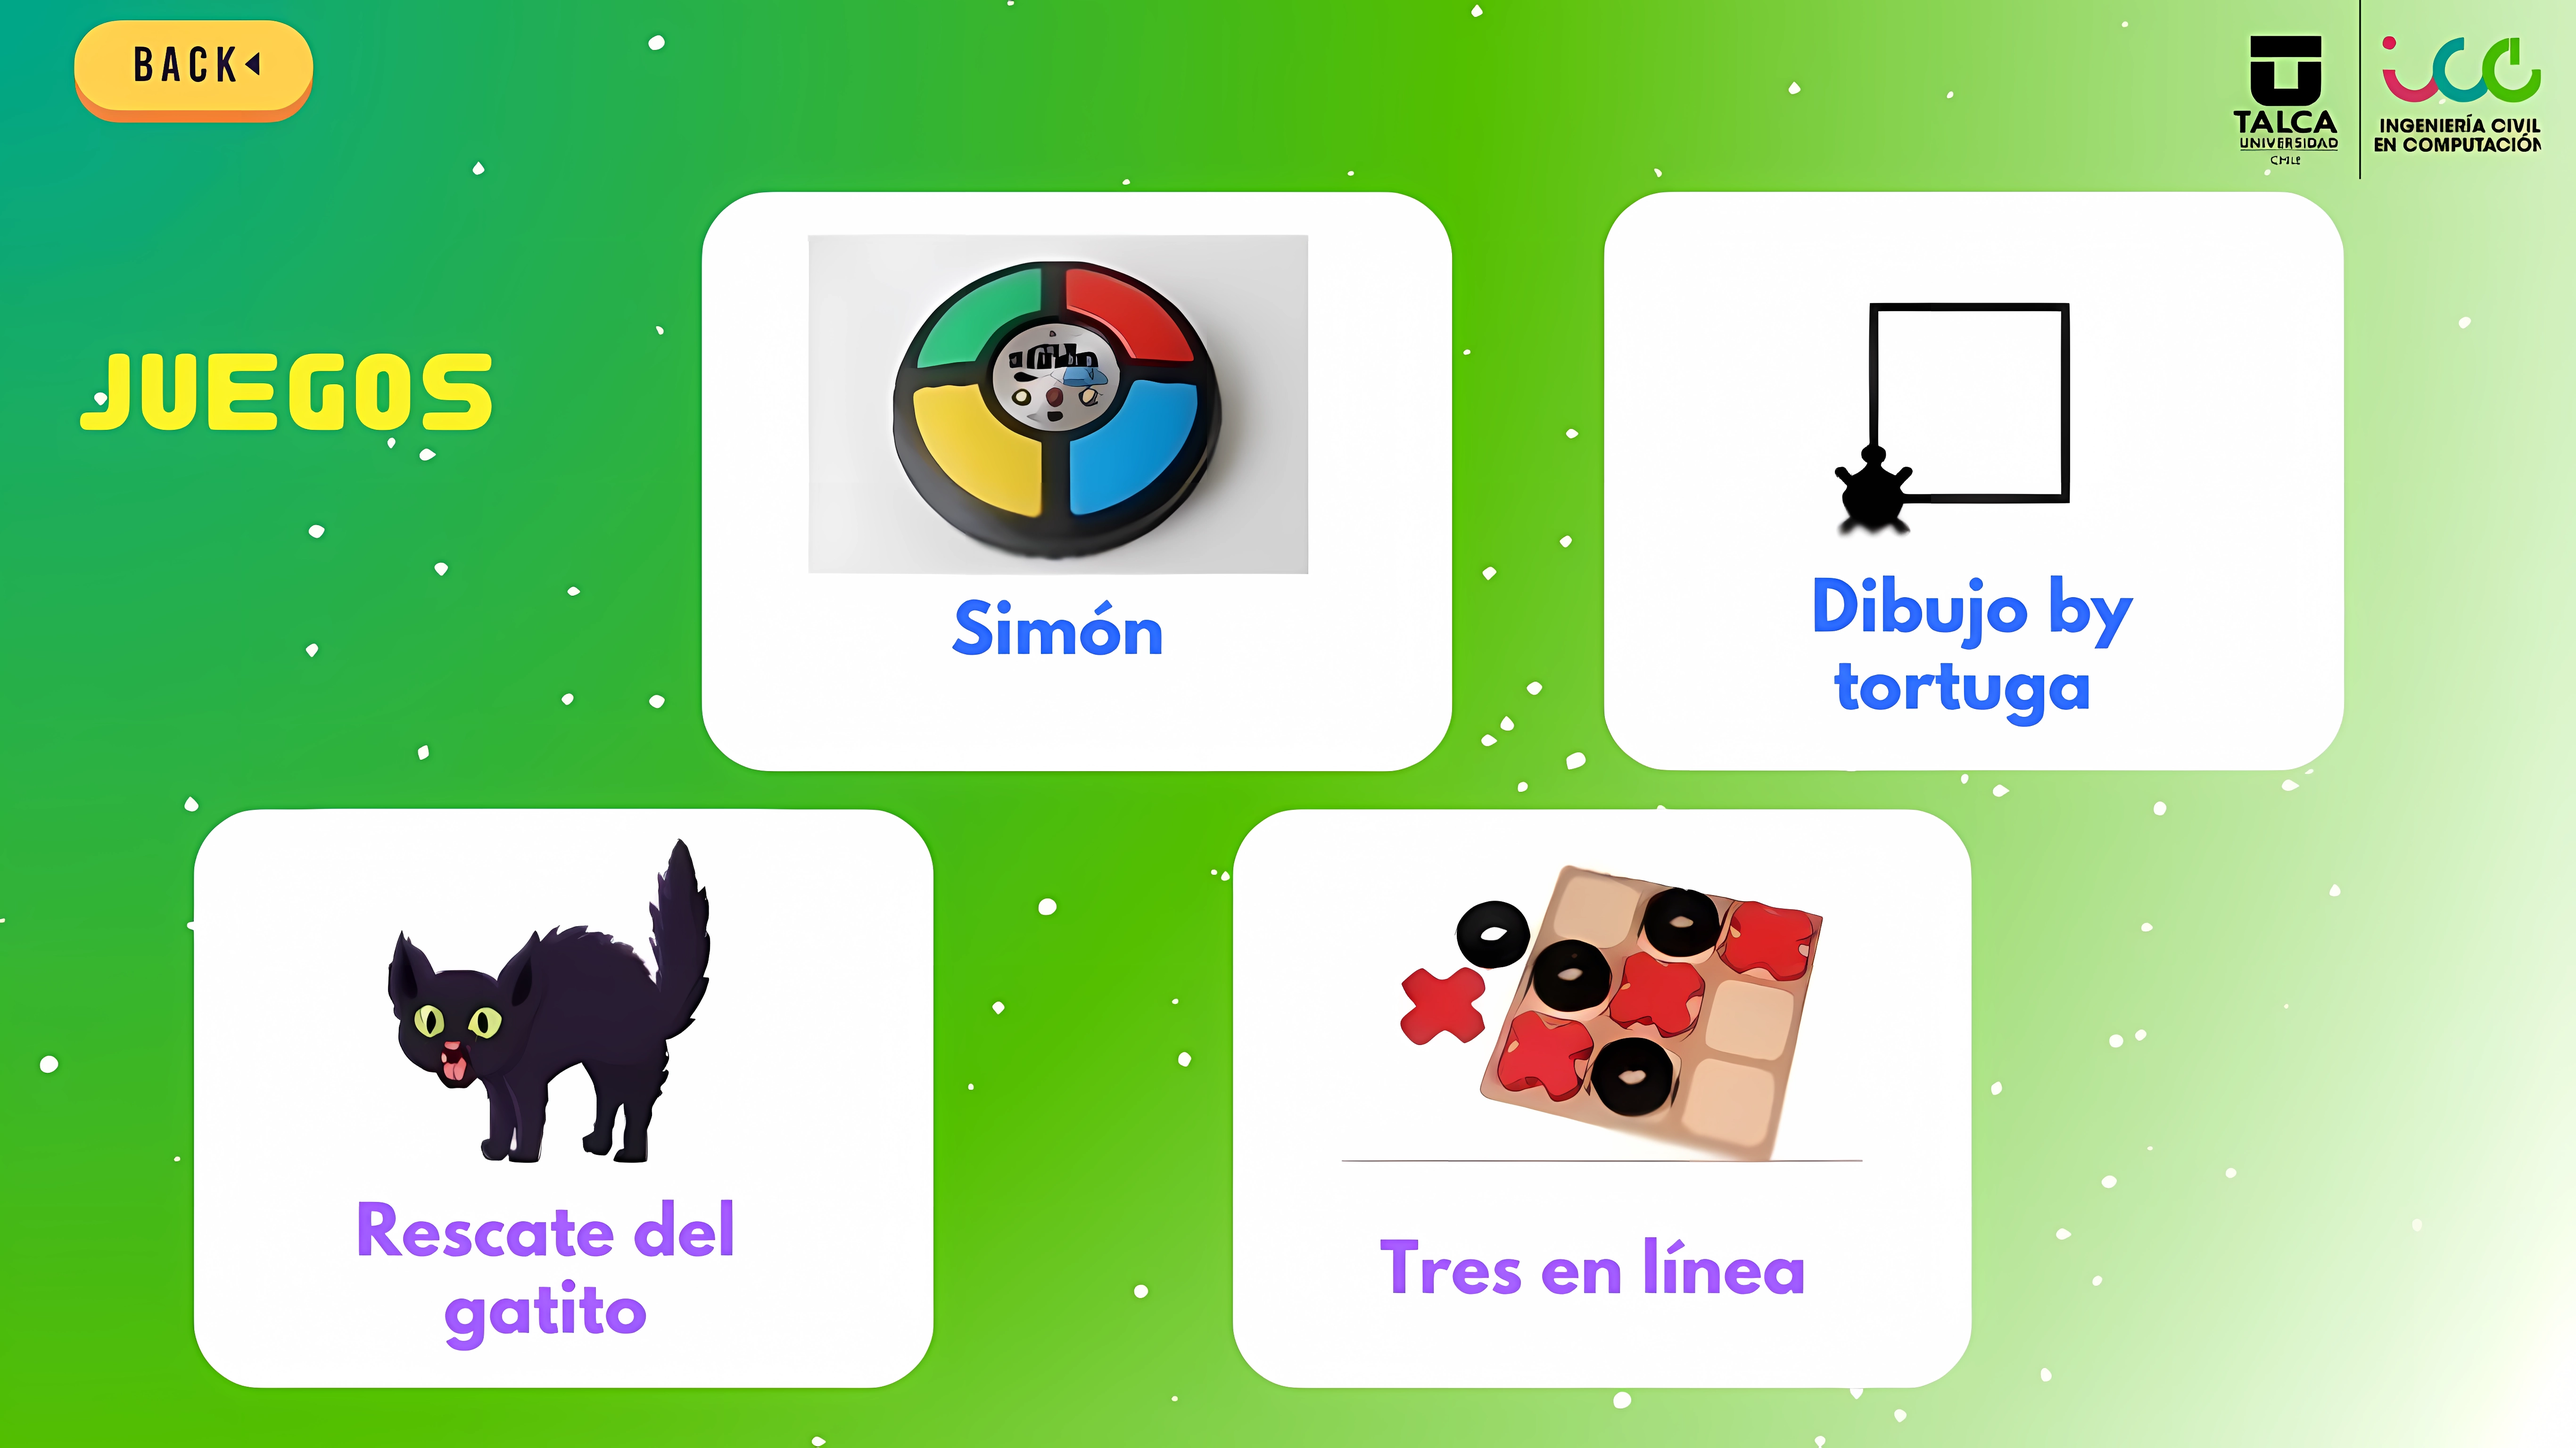
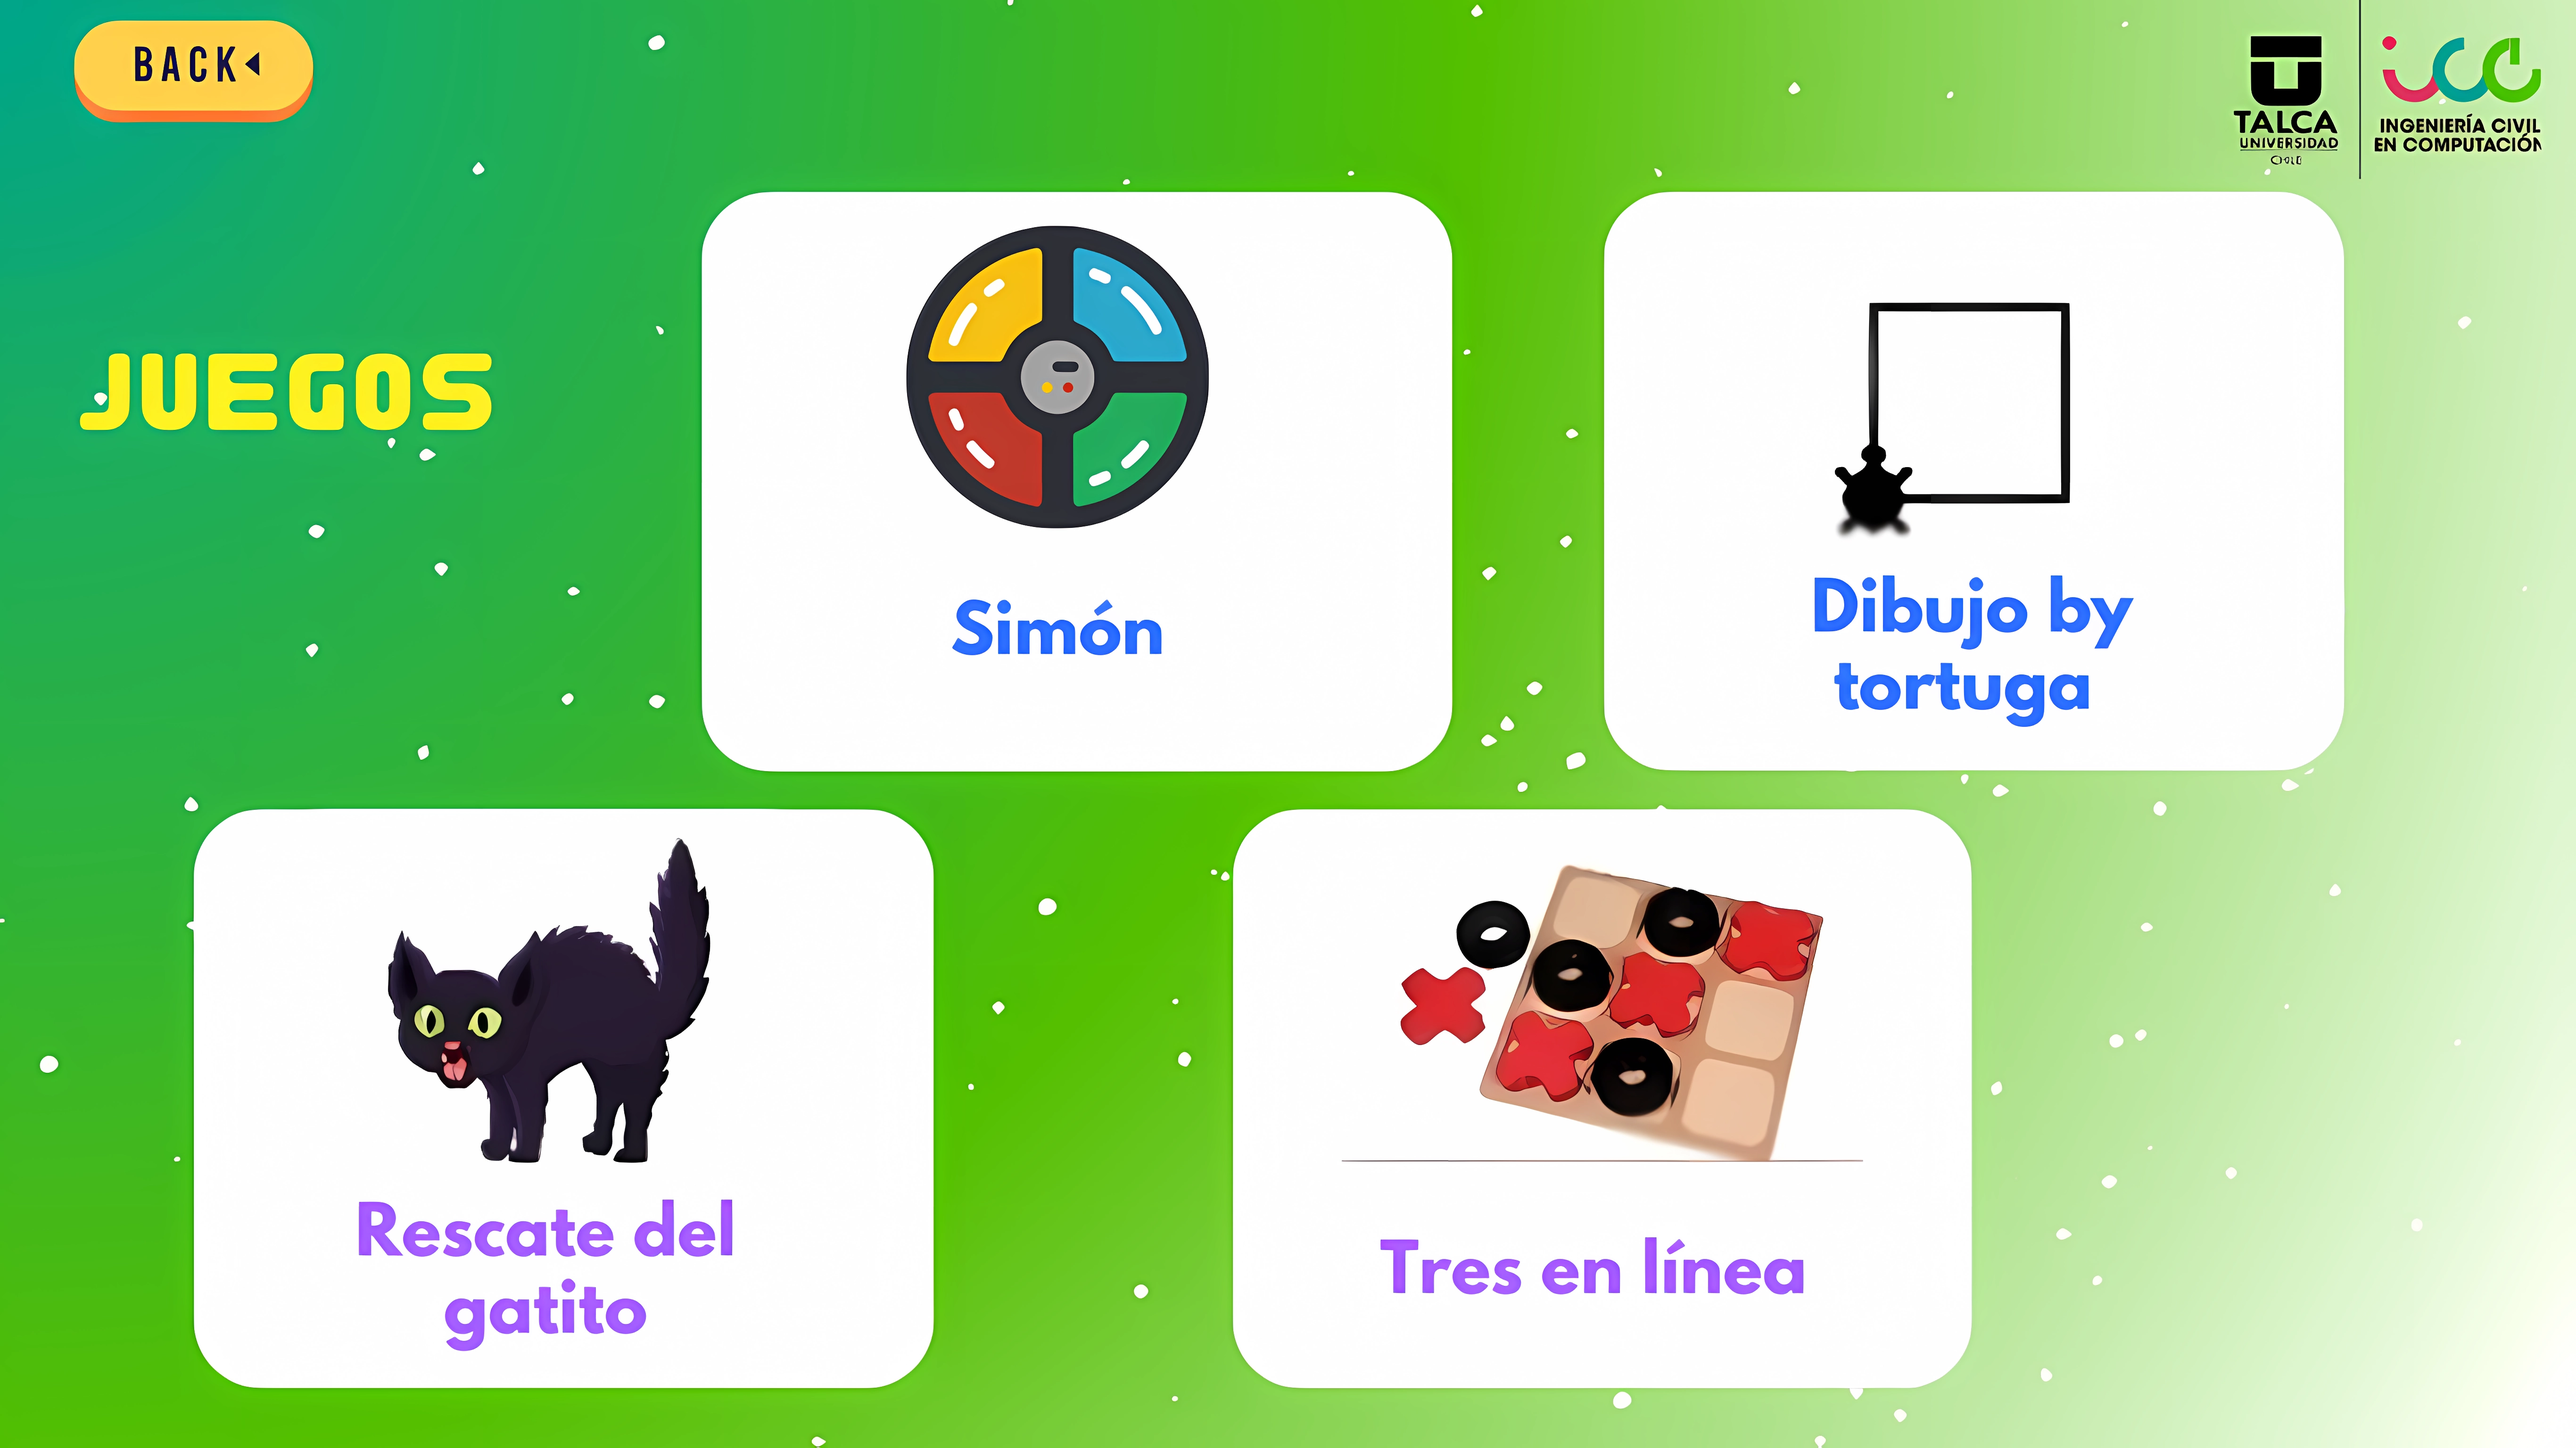
se agregaron las pantallas
se agregaron las pantallas de rescatar gatito y de dibujo bytortuga. Tambien se mejoro la resolcion y detalle de alguna que otra imagen

Changed region(s): [[0.3422, 0.1562, 0.5289, 0.4062], [0.0311, 0.0312, 0.0933, 0.0625], [0.8712, 0.0938, 0.9023, 0.125]]

diff --git a/paginarescatedelgatito.html b/paginarescatedelgatito.html
@@ -1,0 +1,13 @@
+<!DOCTYPE html>
+<html lang="en">
+<head>
+    <link rel="stylesheet" type="text/css" href="rescatedelgatito.css">
+    <meta charset="UTF-8">
+    <meta name="viewport" content="width=device-width, initial-scale=1.0">
+    <title>Document</title>
+</head>
+<body>
+
+    
+</body>
+</html>

diff --git a/paginadibujobytortuga.html b/paginadibujobytortuga.html
@@ -1,0 +1,13 @@
+<!DOCTYPE html>
+<html lang="en">
+<head>
+    <link rel="stylesheet" type="text/css" href="dibujobytortuga.css">
+    <meta charset="UTF-8">
+    <meta name="viewport" content="width=device-width, initial-scale=1.0">
+    <title>Document</title>
+</head>
+<body>
+
+    
+</body>
+</html>

diff --git a/paginatresenlinea.html b/paginatresenlinea.html
@@ -1,0 +1,13 @@
+<!DOCTYPE html>
+<html lang="en">
+<head>
+    <link rel="stylesheet" type="text/css" href="tresenlinea.css">
+    <meta charset="UTF-8">
+    <meta name="viewport" content="width=device-width, initial-scale=1.0">
+    <title>Document</title>
+</head>
+<body>
+
+    
+</body>
+</html>

diff --git a/paginasimondice.html b/paginasimondice.html
@@ -1,0 +1,13 @@
+<!DOCTYPE html>
+<html lang="en">
+<head>
+    <link rel="stylesheet" type="text/css" href="simondice_css">
+    <meta charset="UTF-8">
+    <meta name="viewport" content="width=device-width, initial-scale=1.0">
+    <title>Document</title>
+</head>
+<body>
+
+    
+</body>
+</html>

diff --git a/dibujobytortuga.css b/dibujobytortuga.css
@@ -1,0 +1,9 @@
+body{
+    margin: 0;
+    padding: 0;
+    background-image: url('dibujobytortuga.png');
+    background-size: cover;
+    background-repeat: no-repeat;
+    background-attachment: fixed;
+    background-position: center;
+}

diff --git a/rescatedelgatito.css b/rescatedelgatito.css
@@ -1,0 +1,9 @@
+body{
+    margin: 0;
+    padding: 0;
+    background-image: url('rescategatitohd.png');
+    background-size: cover;
+    background-repeat: no-repeat;
+    background-attachment: fixed;
+    background-position: center;
+}
